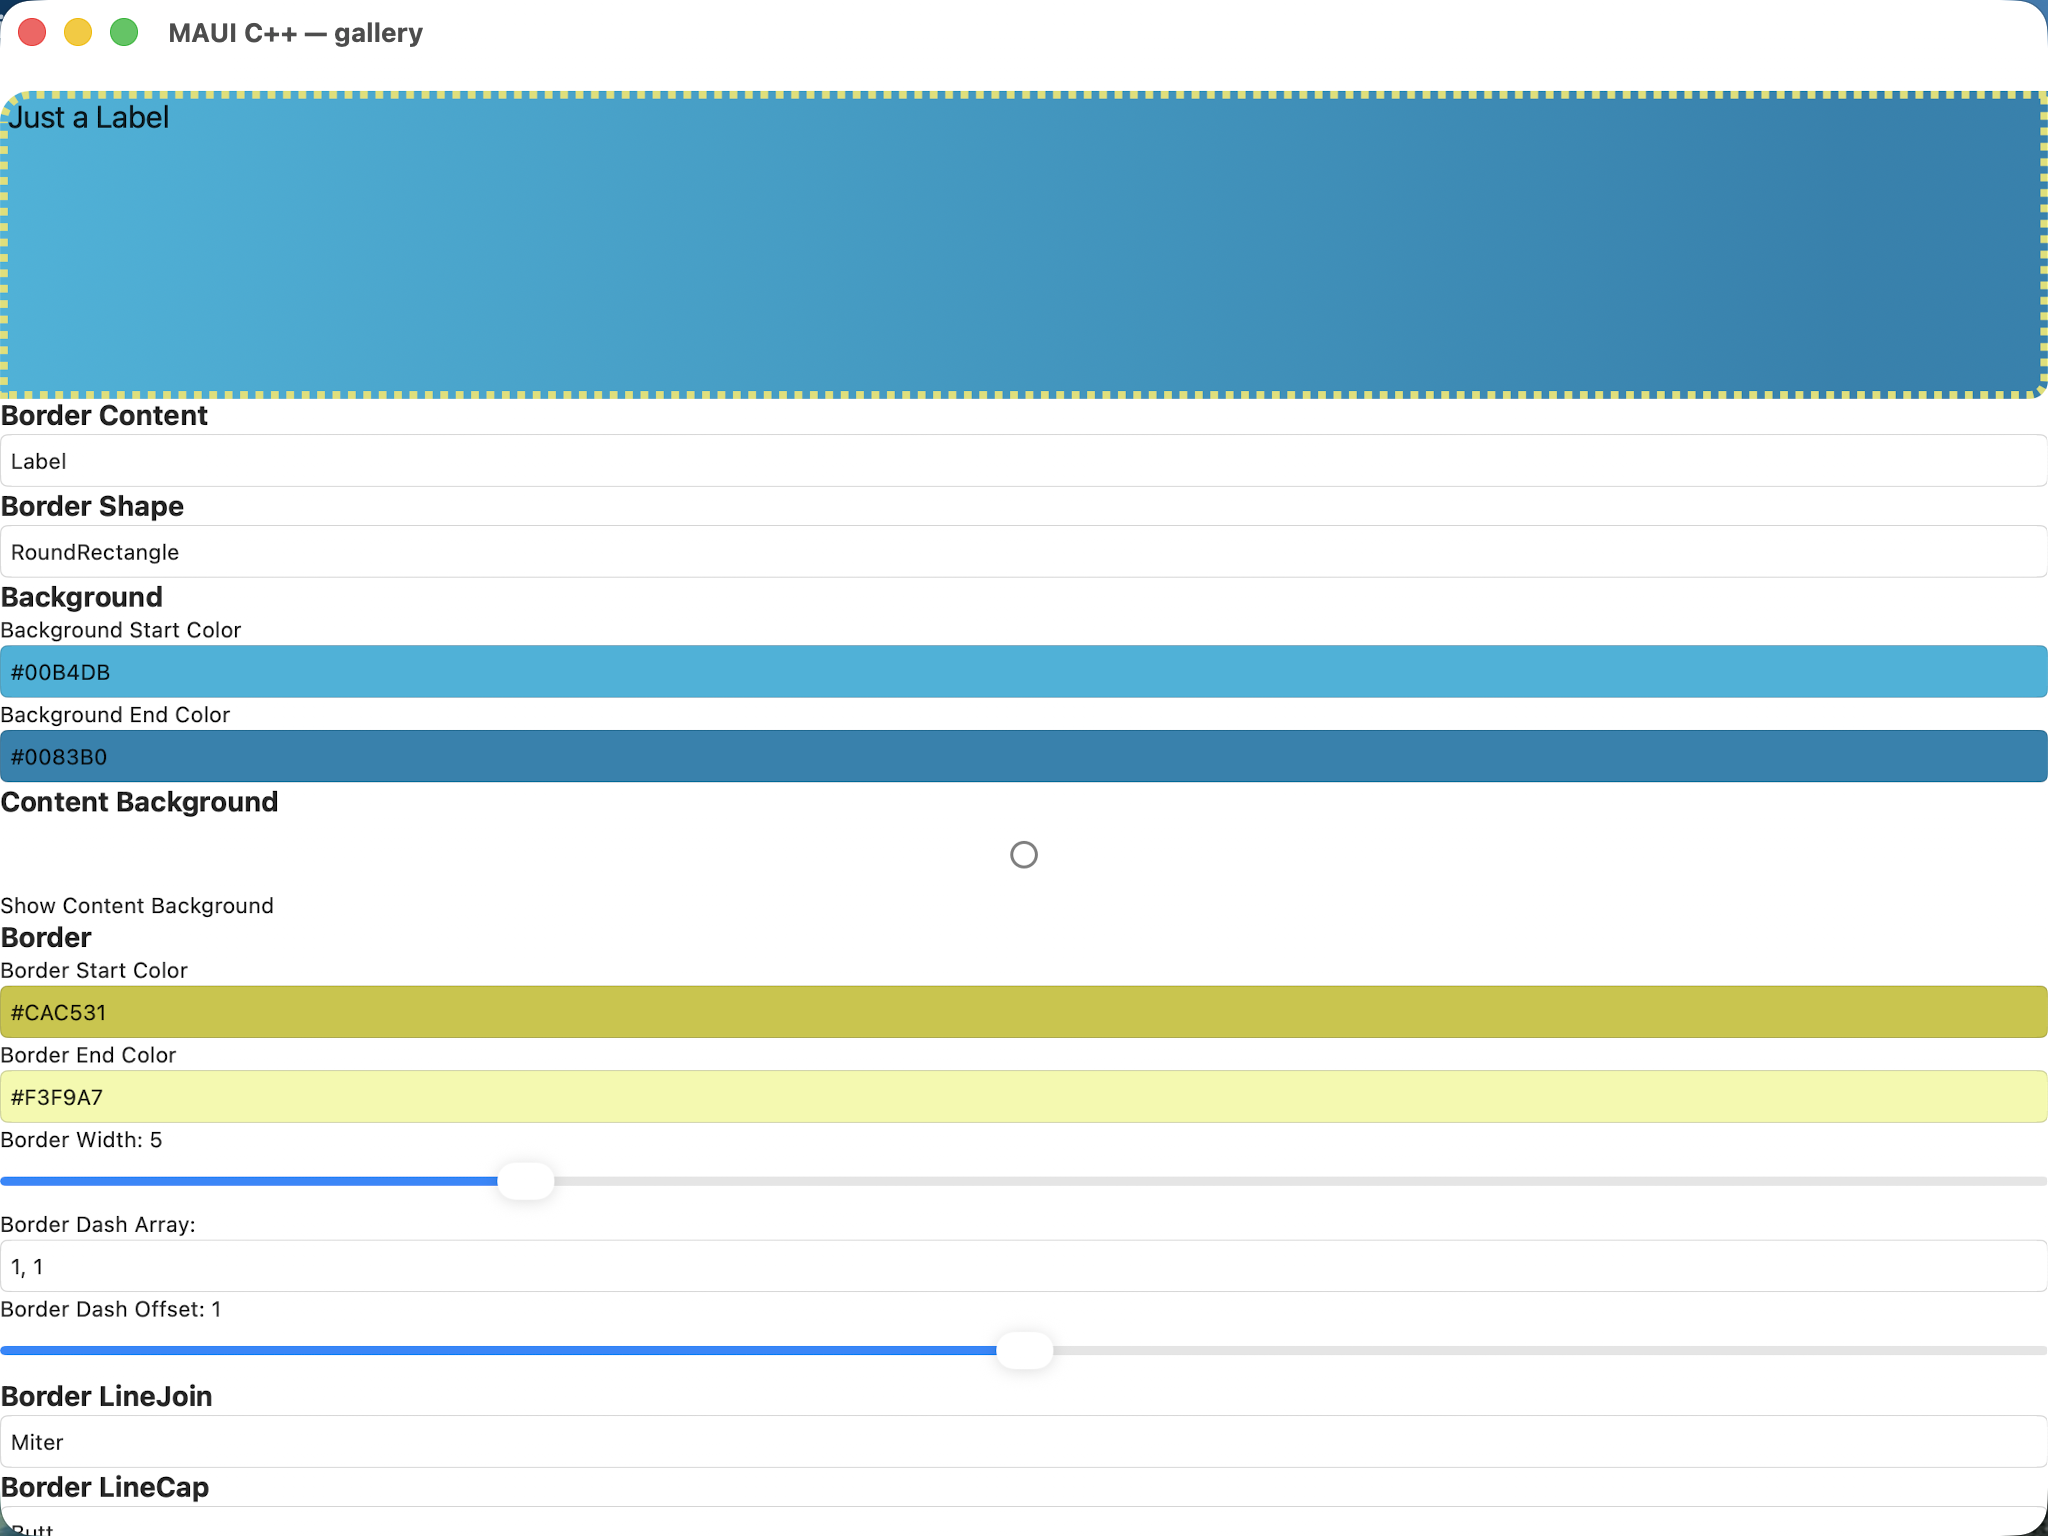
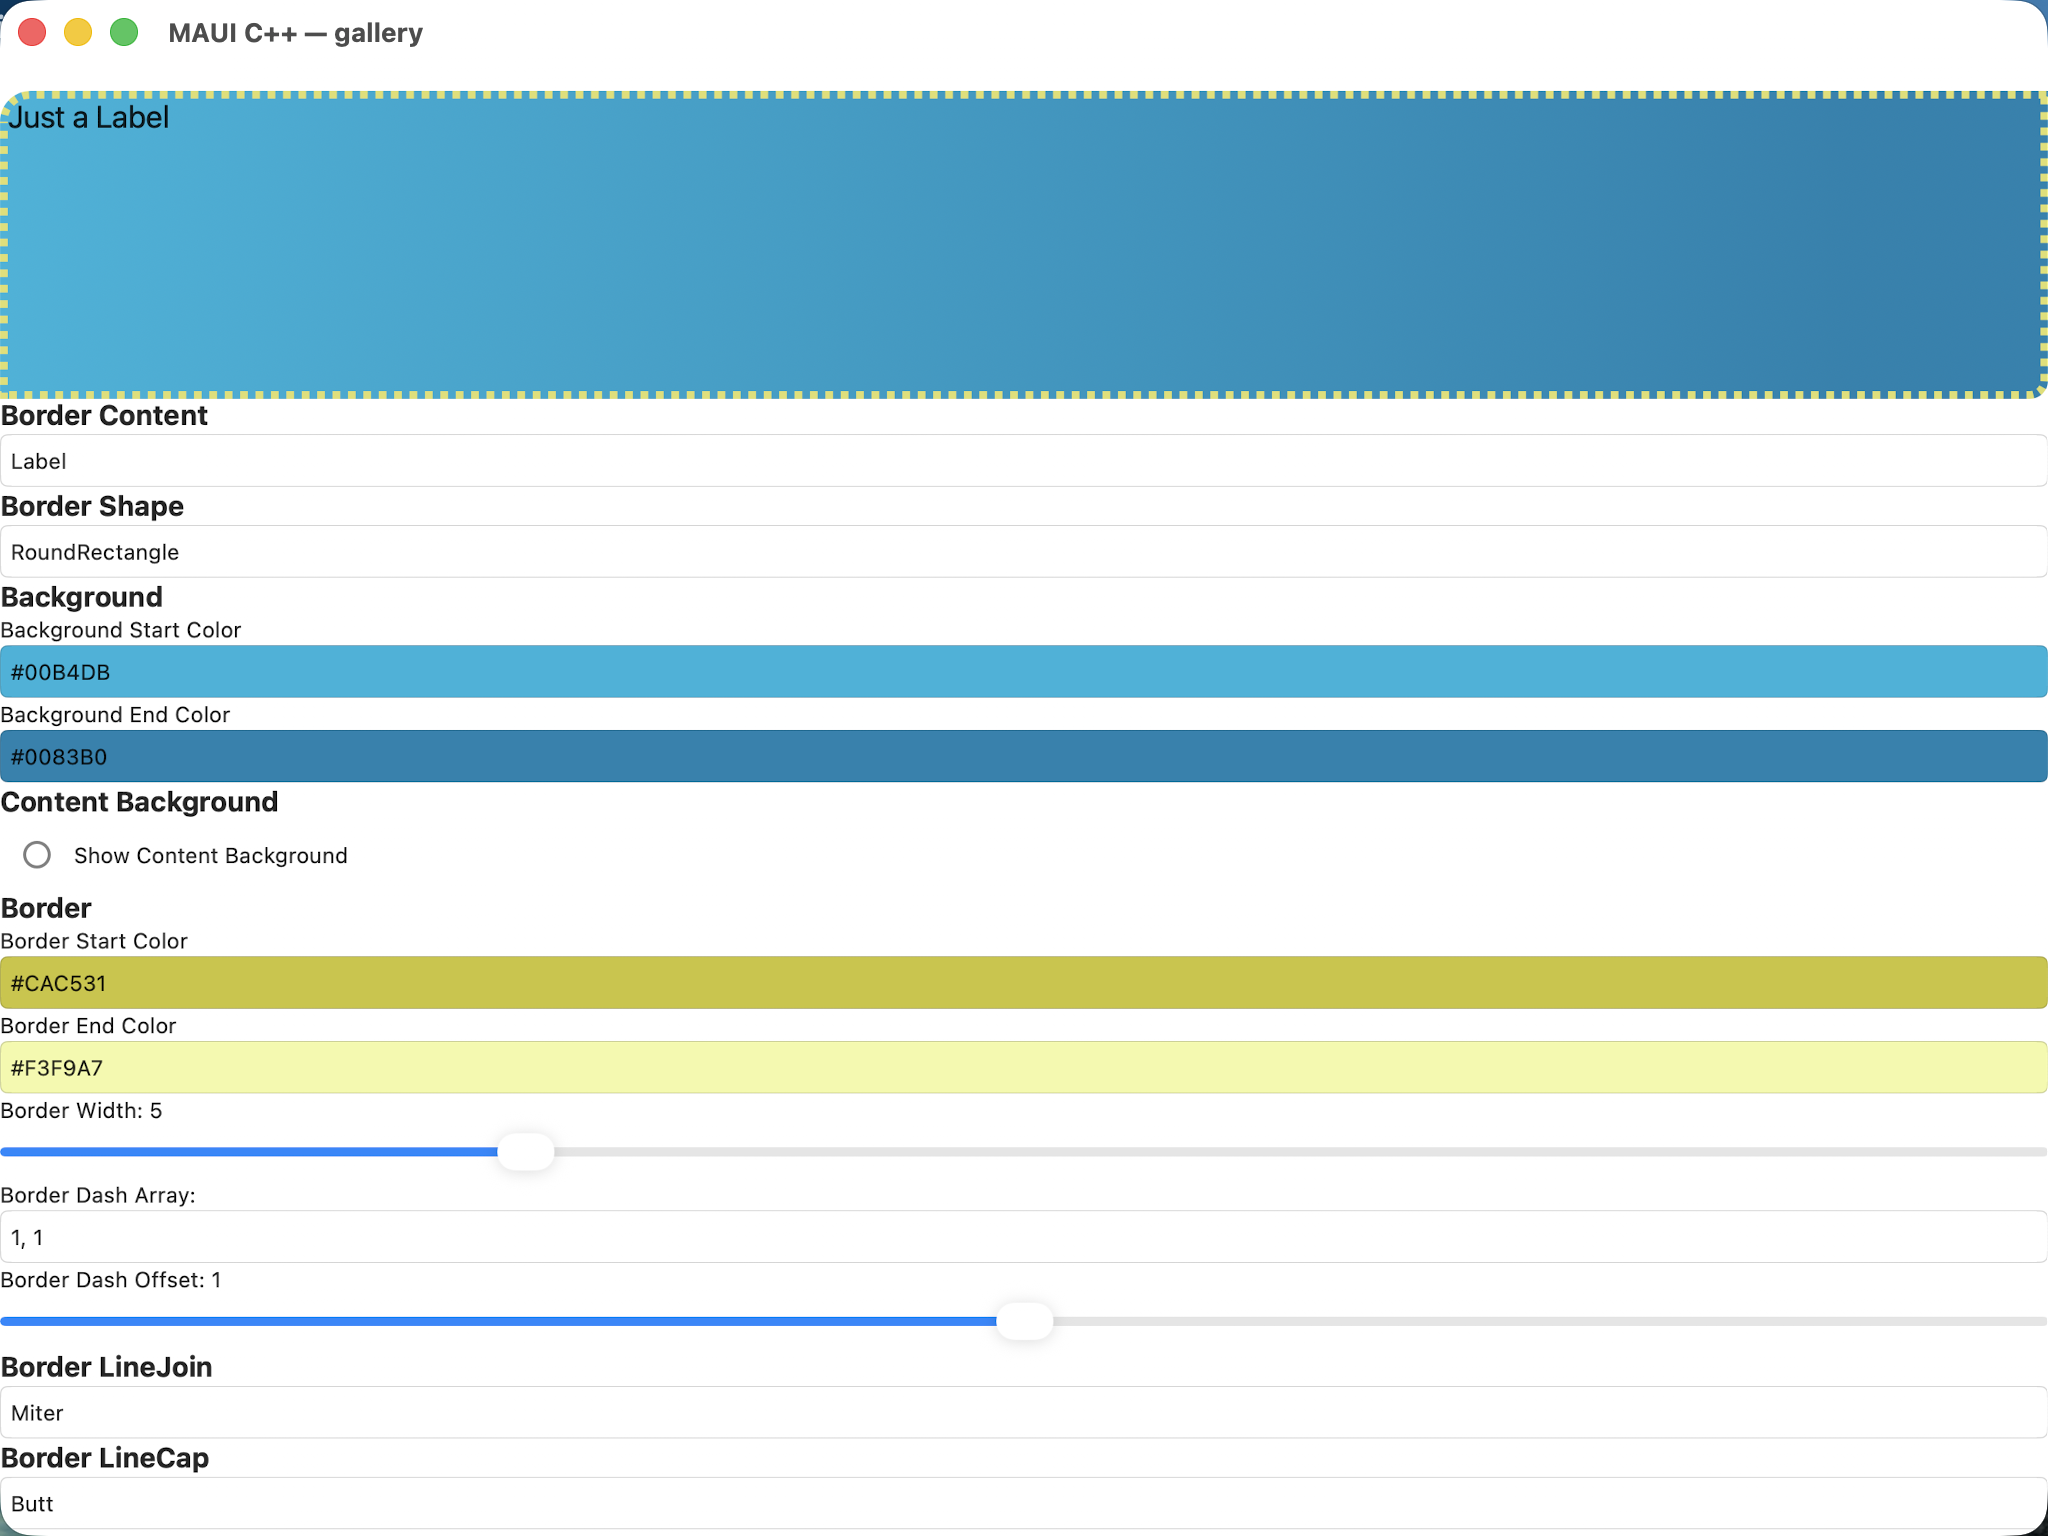
fix(gallery,border_playground): checkbox+label in a horizontal row
maui-compare BorderPlaygroundPage.cs puts the content-background CheckBox (WidthRequest=48,
VerticalOptions=Center) and its 'Show Content Background' label in a HORIZONTAL StackLayout row under
the 'Content Background' headline. The port had flattened all three (headline + checkbox + label) into
the outer vertical stack, so the checkbox floated on its own line with the label dropped onto the next —
detached, roughly tripling the row height and pushing every following section down (macOS re-verify #1).

Add a horizontal_stack_layout content_bg_row_ holding the checkbox (now WidthRequest=48 + vertical
layout alignment Center) and the label (vertical alignment Center), and add the row to controls_ instead
of the two bare children. The checkbox and label now sit on one compact line under the caption, matching
MAUI. Verified on Catalyst.

Follow-up (same page): the value sub-captions (Background/Border Start/End Color, Border Width, Dash
Offset, Corner Radius) should use maui-compare's Info style (FontSize=8) — the port renders them at
default size, which still makes the page cumulatively taller than MAUI.

Changed region(s): [[0.0, 0.5312, 1.0, 1.0]]

diff --git a/port/cpp/examples/gallery/pages/border_playground_page.hpp b/port/cpp/examples/gallery/pages/border_playground_page.hpp
@@ -53,6 +53,7 @@
 #include "maui/controls/entry.hpp"
 #include "maui/controls/file_image_source.hpp"
 #include "maui/controls/grid.hpp"
+#include "maui/controls/horizontal_stack_layout.hpp"
 #include "maui/controls/image.hpp"
 #include "maui/controls/label.hpp"
 #include "maui/controls/observable_collection.hpp"
@@ -184,13 +185,20 @@ namespace maui::samples
             bg_end_entry_.text_changed.connect([this](std::string, std::string) { update_background(); });
             controls_.add(bg_end_entry_);
 
-            // Content background toggle.
+            // Content background toggle. maui-compare BorderPlaygroundPage.cs lays the checkbox
+            // (WidthRequest=48, VerticalOptions=Center) and its "Show Content Background" label in a
+            // HORIZONTAL StackLayout row UNDER the caption — not stacked. Mirror that so the checkbox and
+            // its label stay on one compact line (a bare vertical stack detaches them onto two rows).
             content_bg_caption_.set_text("Content Background");
             controls_.add(content_bg_caption_);
             content_bg_check_.checked_changed.connect([this](bool) { update_content_background(); });
-            controls_.add(content_bg_check_);
+            content_bg_check_.set_width_request(48);
+            content_bg_check_.set_vertical_layout_alignment(maui::core::layout_alignment::center);
             content_bg_label_.set_text("Show Content Background");
-            controls_.add(content_bg_label_);
+            content_bg_label_.set_vertical_layout_alignment(maui::core::layout_alignment::center);
+            content_bg_row_.add(content_bg_check_);
+            content_bg_row_.add(content_bg_label_);
+            controls_.add(content_bg_row_);
 
             // Border gradient color entries.
             border_caption_.set_text("Border");
@@ -513,6 +521,7 @@ namespace maui::samples
         maui::controls::label bg_end_caption_;
         maui::controls::entry bg_end_entry_;
         maui::controls::label content_bg_caption_;
+        maui::controls::horizontal_stack_layout content_bg_row_;
         maui::controls::check_box content_bg_check_;
         maui::controls::label content_bg_label_;
         maui::controls::label border_caption_;
